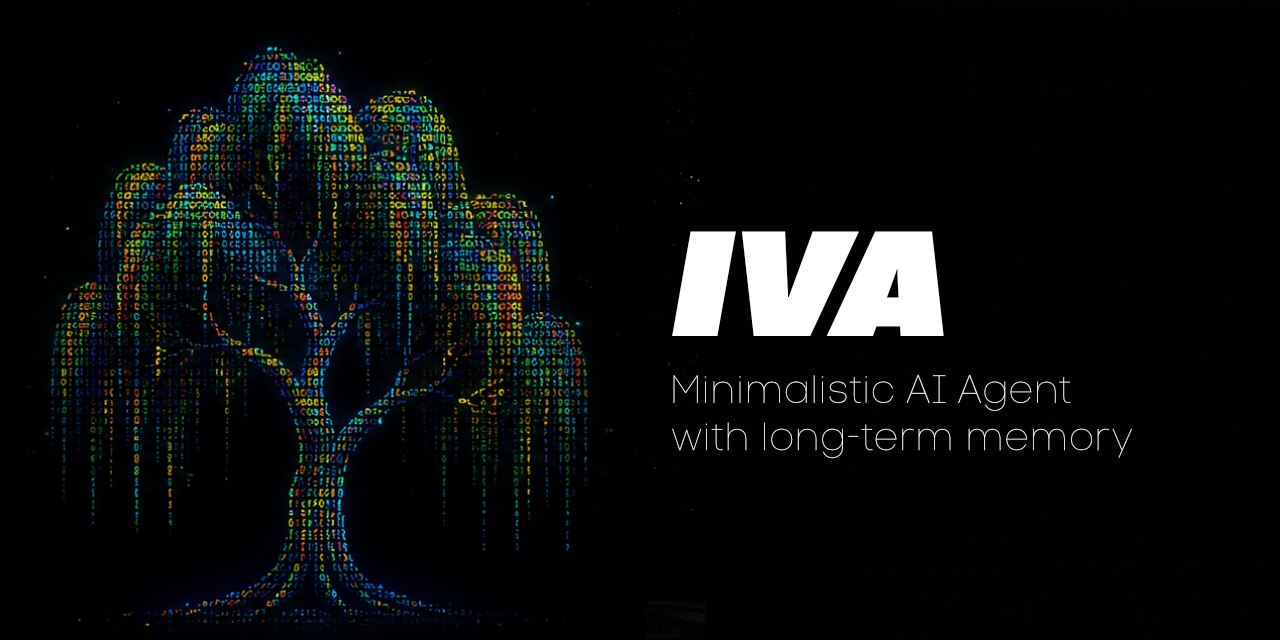
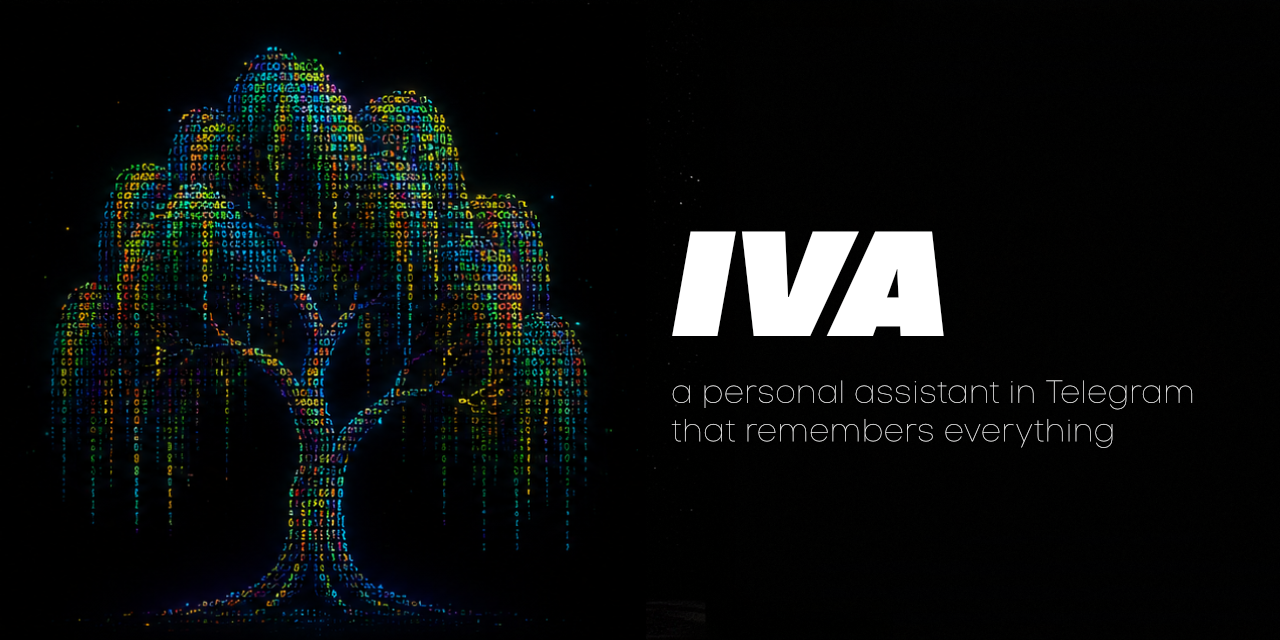
docs: reposition around a Telegram assistant that files everything you send
New hero image (long banner) + copy across README (en/ru) and the docs site: lead
with 'a personal assistant in Telegram that remembers everything' and the capture
loop (you talk, it files) instead of the flat 'AI agent with long-term memory' line.
Refresh OG preview.

diff --git a/docs/index.html b/docs/index.html
@@ -3,8 +3,8 @@
 <head>
 <meta charset="utf-8">
 <meta name="viewport" content="width=device-width, initial-scale=1">
-<title>Iva — personal AI agent with long-term memory</title>
-<meta name="description" content="Iva is an open-source, self-hosted personal AI agent with long-term memory, built on eve (Vercel's agent framework). Lives in Telegram, installs with one command, runs on open models (DeepSeek, Kimi, GLM) for about $9 a month.">
+<title>Iva — a personal assistant in Telegram that remembers everything</title>
+<meta name="description" content="Iva is an open-source, self-hosted personal assistant that lives in Telegram and remembers everything. Send it voice notes, files, forwarded posts and videos — it reads, files and links them. One command, your own server, open models (DeepSeek, Kimi, GLM), about $9 a month. You talk, it files.">
 <meta name="keywords" content="personal AI agent, open source AI agent, self-hosted AI assistant, long-term memory, AI agent with memory, Telegram AI bot, DeepSeek, Ollama, second brain, local-first AI">
 <meta name="author" content="smixs">
 <meta name="robots" content="index, follow">
@@ -21,21 +21,21 @@
 <meta property="og:site_name" content="Iva">
 <meta property="og:locale" content="en_US">
 <meta property="og:locale:alternate" content="ru_RU">
-<meta property="og:title" content="Iva — personal AI agent with long-term memory">
-<meta property="og:description" content="Open-source personal AI agent with long-term memory, built on eve (Vercel's agent framework). One command to install, about $9 a month, and it remembers everything about you.">
+<meta property="og:title" content="Iva — a personal assistant in Telegram that remembers everything">
+<meta property="og:description" content="Open-source personal assistant that lives in Telegram and remembers everything. Throw it voice notes, files and forwarded posts — it files and links them. One command, your own server, about $9 a month. You talk, it files.">
 <meta property="og:url" content="https://smixs.github.io/iva/">
 <meta property="og:image" content="https://smixs.github.io/iva/iva-og.png">
 <meta property="og:image:type" content="image/png">
 <meta property="og:image:width" content="1280">
 <meta property="og:image:height" content="640">
-<meta property="og:image:alt" content="Iva — personal AI agent with long-term memory">
+<meta property="og:image:alt" content="Iva — a personal assistant in Telegram that remembers everything">
 
 <!-- Twitter -->
 <meta name="twitter:card" content="summary_large_image">
-<meta name="twitter:title" content="Iva — personal AI agent with long-term memory">
-<meta name="twitter:description" content="Open-source personal AI agent with long-term memory, built on eve (Vercel's agent framework). One command, about $9 a month, remembers everything about you.">
+<meta name="twitter:title" content="Iva — a personal assistant in Telegram that remembers everything">
+<meta name="twitter:description" content="Open-source personal assistant in Telegram that remembers everything. Send it voice, files, forwarded posts — it files and links them. One command, about $9 a month. You talk, it files.">
 <meta name="twitter:image" content="https://smixs.github.io/iva/iva-og.png">
-<meta name="twitter:image:alt" content="Iva — personal AI agent with long-term memory">
+<meta name="twitter:image:alt" content="Iva — a personal assistant in Telegram that remembers everything">
 
 <script type="application/ld+json">
 {
@@ -43,7 +43,7 @@
   "@type": "SoftwareApplication",
   "name": "Iva",
   "alternateName": "Iva — personal AI agent",
-  "description": "Open-source, self-hosted personal AI agent with long-term memory, built on eve (Vercel's agent framework). Lives in Telegram, installs with one command, runs on open models from about $9 a month.",
+  "description": "Open-source, self-hosted personal assistant that lives in Telegram and remembers everything. Reads and files your voice notes, documents and forwarded posts. Installs with one command, runs on open models from about $9 a month.",
   "applicationCategory": "DeveloperApplication",
   "operatingSystem": "Linux, macOS",
   "url": "https://smixs.github.io/iva/",
@@ -94,9 +94,9 @@
 <div class="wrap">
   <p class="lang"><b>English</b> · <a href="ru/">Русский</a></p>
   <header>
-    <img src="iva-header.webp" alt="Iva — personal AI agent with long-term memory" width="1200" height="676">
-    <h1>Iva — personal AI agent with long-term memory</h1>
-    <p class="tagline">A personal AI agent with long-term memory. One command installs it on a $4 server, and it remembers everything about you.</p>
+    <img src="iva-header.webp" alt="Iva — a personal assistant in Telegram that remembers everything" width="2429" height="630">
+    <h1>Iva — a personal assistant in Telegram that remembers everything</h1>
+    <p class="tagline">A personal assistant in Telegram that remembers everything. Throw it voice notes, files, forwarded posts and videos — it reads them, files them, and links them. You talk, it files.</p>
     <p class="sub">Lives in Telegram. Built on <a href="https://eve.dev/docs/introduction">eve</a>, Vercel's agent framework. About $9 a month.</p>
     <p>
       <a class="cta" href="https://github.com/smixs/iva">Open on GitHub</a>

diff --git a/README.md b/README.md
@@ -2,9 +2,9 @@
 
 **English | [Русский](README.ru.md)**
 
-<img src="assets/iva-header.webp" alt="Iva — a personal AI agent with long-term memory" width="100%">
+<img src="assets/iva-header.webp" alt="Iva — a personal assistant in Telegram that remembers everything" width="100%">
 
-**A personal AI agent with long-term memory. One command installs it on a $4 server, and it remembers everything about you.**
+**A personal assistant in Telegram that remembers everything.** Throw it voice notes, files, forwarded posts, videos — it reads them itself, files them, and links them together. One command puts it on your own server. You talk, it files.
 
 ```bash
 curl -fsSL https://raw.githubusercontent.com/smixs/iva/main/install.sh | bash

diff --git a/README.ru.md b/README.ru.md
@@ -2,9 +2,9 @@
 
 **[English](README.md) | Русский**
 
-<img src="assets/iva-header.webp" alt="Iva - личный AI-агент с долговременной памятью" width="100%">
+<img src="assets/iva-header.webp" alt="Iva - личный ассистент в телеграм, который помнит всё" width="100%">
 
-**Личный AI-агент с долговременной памятью. Ставится одной командой на сервер за $4 и помнит про вас всё.**
+**Личный ассистент в телеграм, который помнит всё.** Скидывай ему голосовые, файлы, пересланные посты, видео - он сам всё прочитает, разложит по местам и свяжет между собой. Одна команда ставит его на твой сервер. Ты говоришь - он раскладывает.
 
 ```bash
 curl -fsSL https://raw.githubusercontent.com/smixs/iva/main/install.sh | bash